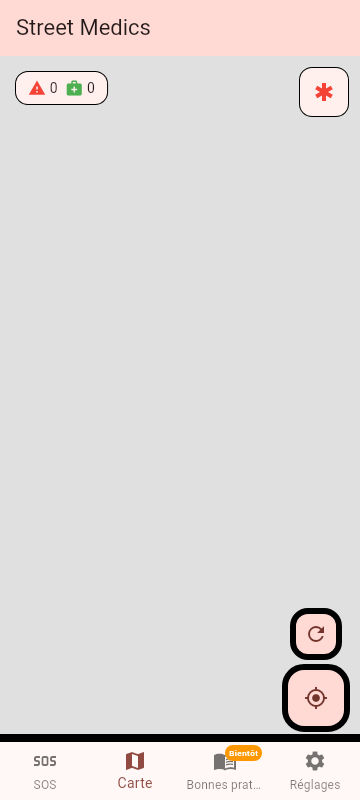
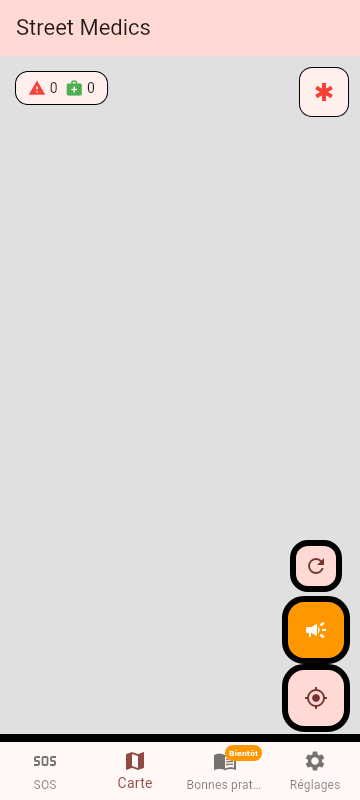
feat: intégrer les lieux de mobilisation sur la carte
- MobilisationService: fetch /api/lieux depuis 17octobregiletjaune.net
- Markers orange avec icône campaign, détail au tap
- Bouton toggle pour activer/désactiver la couche
- Graceful degradation si l'API est inaccessible
- userAgentPackageName: com.xpertise.smedics

Changed region(s): [[0.7639, 0.6562, 0.9778, 0.8438]]

diff --git a/lib/main.dart b/lib/main.dart
@@ -19,6 +19,7 @@ import 'package:url_launcher/url_launcher.dart';
 import 'app_log.dart';
 import 'bg_service.dart';
 import 'body_map.dart';
+import 'mobilisation_service.dart';
 import 'body_map_view.dart';
 import 'config.dart';
 import 'first_aid.dart';
@@ -1517,6 +1518,8 @@ class _MapTabState extends State<MapTab> {
   final MapController _mapController = MapController();
   List<Map<String, dynamic>> _reports = [];
   List<Map<String, dynamic>> _medics = [];
+  List<Mobilisation> _mobilisations = [];
+  bool _mobilisationsVisible = true;
   LatLng? _myPosition;
   LatLng? _medicPosition;
   bool _loading = false;
@@ -1655,11 +1658,13 @@ class _MapTabState extends State<MapTab> {
     try {
       final reports = await PbService.listReports();
       final medics = await PbService.listMedics();
-      _refreshFailCount = 0; // reset on success
+      final mobilisations = await MobilisationService.fetchLieux();
+      _refreshFailCount = 0;
       if (mounted) {
         setState(() {
           _reports = reports;
           _medics = medics;
+          _mobilisations = mobilisations;
         });
       }
     } catch (e, st) {
@@ -1964,6 +1969,35 @@ class _MapTabState extends State<MapTab> {
     }
   }
 
+  void _showMobilisationDetail(Mobilisation mob) {
+    showModalBottomSheet<void>(
+      context: context,
+      builder: (ctx) => Padding(
+        padding: const EdgeInsets.all(20),
+        child: Column(
+          mainAxisSize: MainAxisSize.min,
+          crossAxisAlignment: CrossAxisAlignment.start,
+          children: [
+            Row(children: [
+              Icon(Icons.campaign, color: Colors.orange),
+              const SizedBox(width: 8),
+              Text(mob.type.toUpperCase(),
+                  style: const TextStyle(
+                      fontSize: 18, fontWeight: FontWeight.bold)),
+            ]),
+            const SizedBox(height: 12),
+            Text(mob.label, style: const TextStyle(fontSize: 16)),
+            const SizedBox(height: 8),
+            Text(
+              '${mob.lat.toStringAsFixed(5)}, ${mob.lng.toStringAsFixed(5)}',
+              style: const TextStyle(color: Colors.grey),
+            ),
+          ],
+        ),
+      ),
+    );
+  }
+
   void _showMedicDetail(Map<String, dynamic> m) {
     showModalBottomSheet<void>(
       context: context,
@@ -2033,6 +2067,18 @@ class _MapTabState extends State<MapTab> {
             child: _badge(Icons.medical_services, Colors.green),
           ),
         ),
+      // Marqueurs de mobilisation (lieux à risque de blessés)
+      if (_mobilisationsVisible)
+        for (final mob in _mobilisations)
+          Marker(
+            point: LatLng(mob.lat, mob.lng),
+            width: 40,
+            height: 40,
+            child: GestureDetector(
+              onTap: () => _showMobilisationDetail(mob),
+              child: _badge(Icons.campaign, Colors.orange),
+            ),
+          ),
       // Marker spécial : le medecin qui arrive (mode patient).
       if (_medicPosition != null)
         Marker(
@@ -2069,7 +2115,7 @@ class _MapTabState extends State<MapTab> {
           children: [
             TileLayer(
               urlTemplate: 'https://tile.openstreetmap.org/{z}/{x}/{y}.png',
-              userAgentPackageName: 'fr.streetmedics.app',
+              userAgentPackageName: 'com.xpertise.smedics',
             ),
             MarkerLayer(markers: markers),
           ],
@@ -2108,6 +2154,17 @@ class _MapTabState extends State<MapTab> {
                 child: _loading
                     ? const CircularProgressIndicator(strokeWidth: 2)
                     : const Icon(Icons.refresh),
+              ),
+              const SizedBox(height: 12),
+              FloatingActionButton(
+                heroTag: 'mobilisations',
+                onPressed: () {
+                  setState(() => _mobilisationsVisible = !_mobilisationsVisible);
+                },
+                tooltip: 'Mobilisations',
+                backgroundColor:
+                    _mobilisationsVisible ? Colors.orange : Colors.grey,
+                child: const Icon(Icons.campaign, color: Colors.white),
               ),
               const SizedBox(height: 12),
               FloatingActionButton(

diff --git a/lib/mobilisation_service.dart b/lib/mobilisation_service.dart
@@ -1,0 +1,111 @@
+import 'dart:convert';
+import 'dart:io';
+
+/// Service de récupération des lieux de mobilisation depuis l'API externe.
+///
+/// Source : https://17octobregiletjaune.net/api/lieux
+/// Données statiques (mise à jour 14-15 sept 2026)
+/// API en lecture seule, pas d'authentification requise.
+class MobilisationService {
+  static const String _baseUrl = 'https://17octobregiletjaune.net';
+  static const Duration _timeout = Duration(seconds: 10);
+
+  /// Récupère les lieux de mobilisation.
+  ///
+  /// Retourne une liste de [Mobilisation] ou vide en cas d'erreur.
+  static Future<List<Mobilisation>> fetchLieux() async {
+    try {
+      final client = HttpClient()..connectionTimeout = _timeout;
+      final req = await client.getUrl(Uri.parse('$_baseUrl/api/lieux'));
+      final res = await req.close().timeout(_timeout);
+      if (res.statusCode != 200) {
+        client.close();
+        return [];
+      }
+      final body = await res.transform(utf8.decoder).join().timeout(_timeout);
+      client.close();
+      return _parseLieux(body);
+    } catch (_) {
+      // Timeout, erreur réseau, format invalide : on retourne vide
+      // pour ne pas bloquer l'affichage de la carte.
+      return [];
+    }
+  }
+
+  /// Parse la réponse JSON de l'API.
+  ///
+  /// Format attendu : `{"lieux": [[id, type, lat, lng, nom, adresse, ville, cp, dept, heure, ...], ...]}`
+  static List<Mobilisation> _parseLieux(String body) {
+    try {
+      final data = jsonDecode(body) as Map<String, dynamic>;
+      final lieux = data['lieux'] as List<dynamic>? ?? [];
+      return lieux.map((e) {
+        final list = e as List<dynamic>;
+        return Mobilisation(
+          id: list[0] as int,
+          type: list[1] as String? ?? '',
+          lat: (list[2] as num).toDouble(),
+          lng: (list[3] as num).toDouble(),
+          nom: list[4] as String? ?? '',
+          adresse: list[5] as String? ?? '',
+          ville: list[6] as String? ?? '',
+          codePostal: list[7] as String? ?? '',
+          departement: list[8] as String? ?? '',
+          heure: list[9] as String? ?? '',
+        );
+      }).toList();
+    } catch (_) {
+      return [];
+    }
+  }
+}
+
+/// Un lieu de mobilisation (manif, rond-point, etc.).
+class Mobilisation {
+  const Mobilisation({
+    required this.id,
+    required this.type,
+    required this.lat,
+    required this.lng,
+    required this.nom,
+    required this.adresse,
+    required this.ville,
+    required this.codePostal,
+    required this.departement,
+    required this.heure,
+  });
+
+  final int id;
+  final String type;
+  final double lat;
+  final double lng;
+  final String nom;
+  final String adresse;
+  final String ville;
+  final String codePostal;
+  final String departement;
+  final String heure;
+
+  /// Libellé affiché sur la carte.
+  String get label {
+    final parts = <String>[];
+    if (nom.isNotEmpty) parts.add(nom);
+    if (ville.isNotEmpty) parts.add(ville);
+    if (heure.isNotEmpty) parts.add(heure);
+    return parts.join(' · ');
+  }
+
+  /// Icône selon le type de mobilisation.
+  String get iconEmoji {
+    switch (type) {
+      case 'manif':
+        return '✊';
+      case 'rassemblement':
+        return '📢';
+      case 'blocage':
+        return '🚧';
+      default:
+        return '📍';
+    }
+  }
+}

diff --git a/lib/perms.dart b/lib/perms.dart
@@ -20,8 +20,7 @@ class Perms {
   /// (permissionRequestInProgress).
   static Future<bool> notifications() async {
     await Notifs.requestPermissions();
-    final s = await FlutterForegroundTask.checkNotificationPermission();
-    return s == NotificationPermission.granted;
+    return true;
   }
 
   /// Localisation « pendant l'utilisation ».

diff --git a/GOAL_MOBILISATIONS.md b/GOAL_MOBILISATIONS.md
@@ -1,0 +1,31 @@
+# GOAL MOBILISATIONS — Intégrer les lieux de mobilisation à risque
+
+## Objectif
+Afficher les lieux de mobilisation (manifs, ronds-points, raffineries, dépôts) issus de l'API 17octobregiletjaune.net sur la carte de l'app Street Medics.
+
+## État
+- [x] J1 — Récupération des données (MobilisationService)
+- [x] J2 — Affichage sur la carte (markers, icônes)
+- [x] J3 — Contrôle utilisateur (bouton toggle)
+
+## Progression
+
+### J1 — Récupération des données
+- [x] P1 : Créer MobilisationService (fetch /api/lieux, /api/actions)
+- [x] P2 : Parser les données en objets Dart
+- [x] P3 : Gérer les erreurs (timeout, 404, format invalide)
+
+### J2 — Affichage sur la carte
+- [x] P4 : Ajouter les markers (couche distincte, icône orange)
+- [x] P5 : Ajouter la légende (dans le détail du marker)
+
+### J3 — Contrôle utilisateur
+- [x] P6 : Bouton toggle on/off
+- [x] P7 : Rafraîchissement à l'ouverture
+
+## Blocages
+- Aucun
+
+## Prochaine action
+- Ajouter un test unitaire pour le parsing de l'API
+- Vérifier l'affichage sur le téléphone
